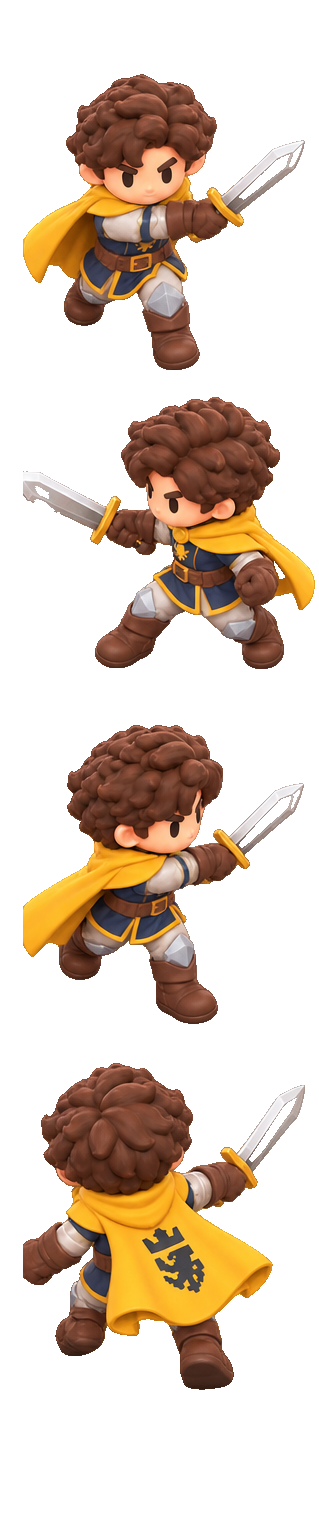
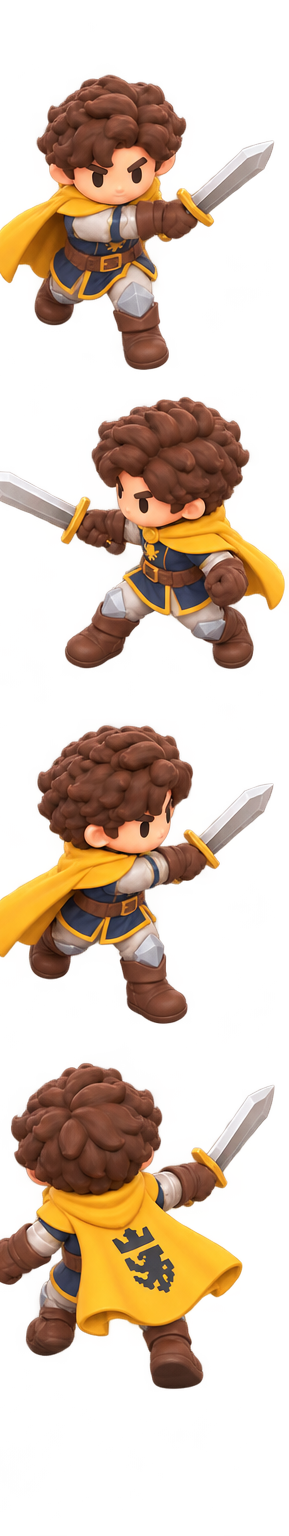
Ataque do Sir Thomas: arquivo original do usuário, sem recorte nem retoque

Changed region(s): [[0.0, 0.4688, 0.9654, 0.9062], [0.0, 0.0312, 0.9654, 0.4375], [0.9654, 0.375, 0.9965, 0.4062]]

diff --git a/src/player.js b/src/player.js
@@ -148,9 +148,11 @@ export class Player {
     m.rotation.z = (this.dodge > 0 ? Math.sin(this.dodge / 0.28 * Math.PI) * 0.5 : sw * 0.3) * (f.x < -0.05 ? 1 : -1) + (this.moving && !wk.has ? Math.sin(this.bobT) * 0.05 : 0);
     let pose = null; if (wk.has) { wk.face(f.x, f.z); const set = this.swing >= 0 && this.atkFrames ? this.atkFrames : this.blocking && this.blockFrames ? this.blockFrames : null;
       if (set) { const fr = set[wk.dir] || set.down; pose = set === this.atkFrames ? fr[Math.min(fr.length - 1, Math.floor(this.swing * fr.length))] : fr[Math.min(fr.length - 1, 1)]; if (pose !== wk.cur) { wk.cur = pose; setBillboardImage(m, pose); } } else wk.update(dt, this.moving, this.running ? 11 : 8); }
-    if (wk.has) { const img = wk.cur; m.scale.x = img ? img.width * this.upp : this.w; if (!pose) m.scale.x *= this.blocking && !this.blockFrames ? 0.9 : 1; }   // sheet: real steps in the facing direction
+    // the attack sheet is the user's original art at its own resolution: scaled by the ratio of the two sheets' row heights
+    const atkPose = pose && this.swing >= 0, u = atkPose ? this.upp * (Assets.images.sheet_thomas.height / 4) / (Assets.images.sheet_thomas_attack.height / 4) : this.upp;
+    if (wk.has) { const img = wk.cur; m.scale.x = img ? img.width * u : this.w; if (!pose) m.scale.x *= this.blocking && !this.blockFrames ? 0.9 : 1; }   // sheet: real steps in the facing direction
     else m.scale.x = (f.x < -0.05 ? -1 : 1) * this.w * (this.blocking ? 0.9 : 1);   // single image: mirrored when facing west, a small sway when walking
-    m.scale.y = wk.has && wk.cur ? wk.cur.height * this.upp * (this.blocking && !this.blockFrames ? 0.92 : 1) : this.h * (this.blocking ? 0.92 : 1);
+    m.scale.y = wk.has && wk.cur ? wk.cur.height * u * (this.blocking && !this.blockFrames ? 0.92 : 1) : this.h * (this.blocking ? 0.92 : 1);
     if (pose) m.rotation.z = 0;   // drawn poses carry the motion themselves
     m.material.color.setHex(this.hurtT > 0 ? 0xff6060 : this.blocking ? 0xa0c0ff : this.game.sky.tint);
     this.shadow.position.x = this.pos.x; this.shadow.position.z = this.pos.z;
